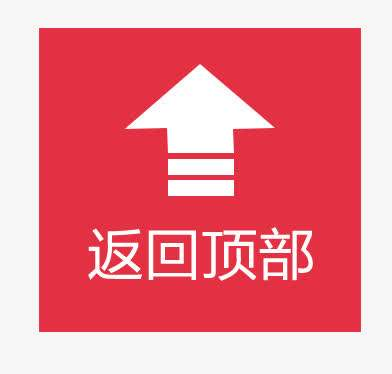
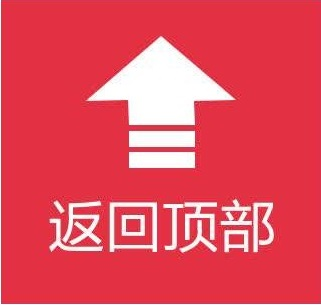
xkjs

diff --git a/src/main/resources/templates/index2.html b/src/main/resources/templates/index2.html
@@ -206,7 +206,7 @@
 
 </head>
 <body>
-<span style="font-size:14px;z-index: 10;"><p id="back-to-top" style="z-index: 15;"><a href="#top"><span></span><img src="images/cd-top-arrow.svg"></a></p></span>
+<span style="font-size:14px;z-index: 10;"><p id="back-to-top" style="z-index: 15;"><a href="#top"><span></span><img src="images/top2.jpeg"></a></p></span>
 <header class="cd-main-header">
   <div class="cd-main-header__container container container--lg">
     <nav class="nav navbar-default navbar-fixed-top">
